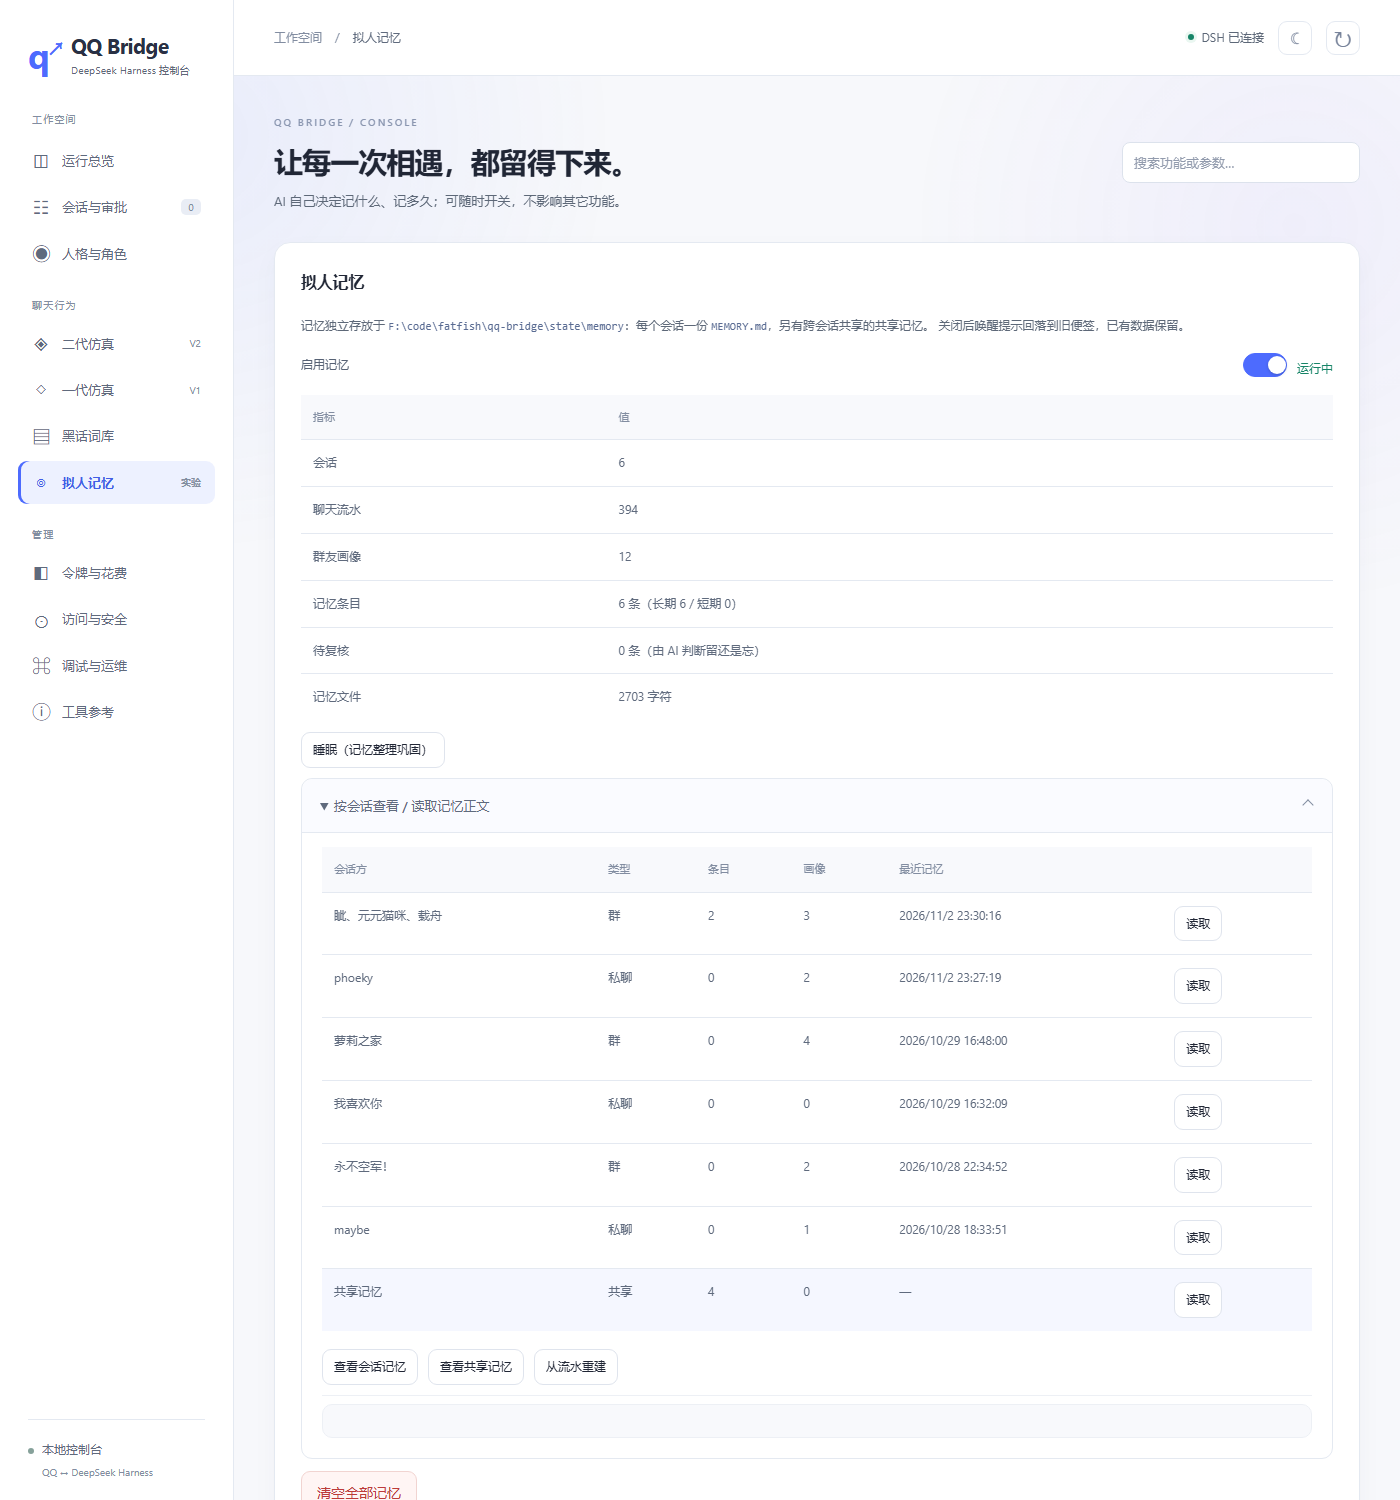
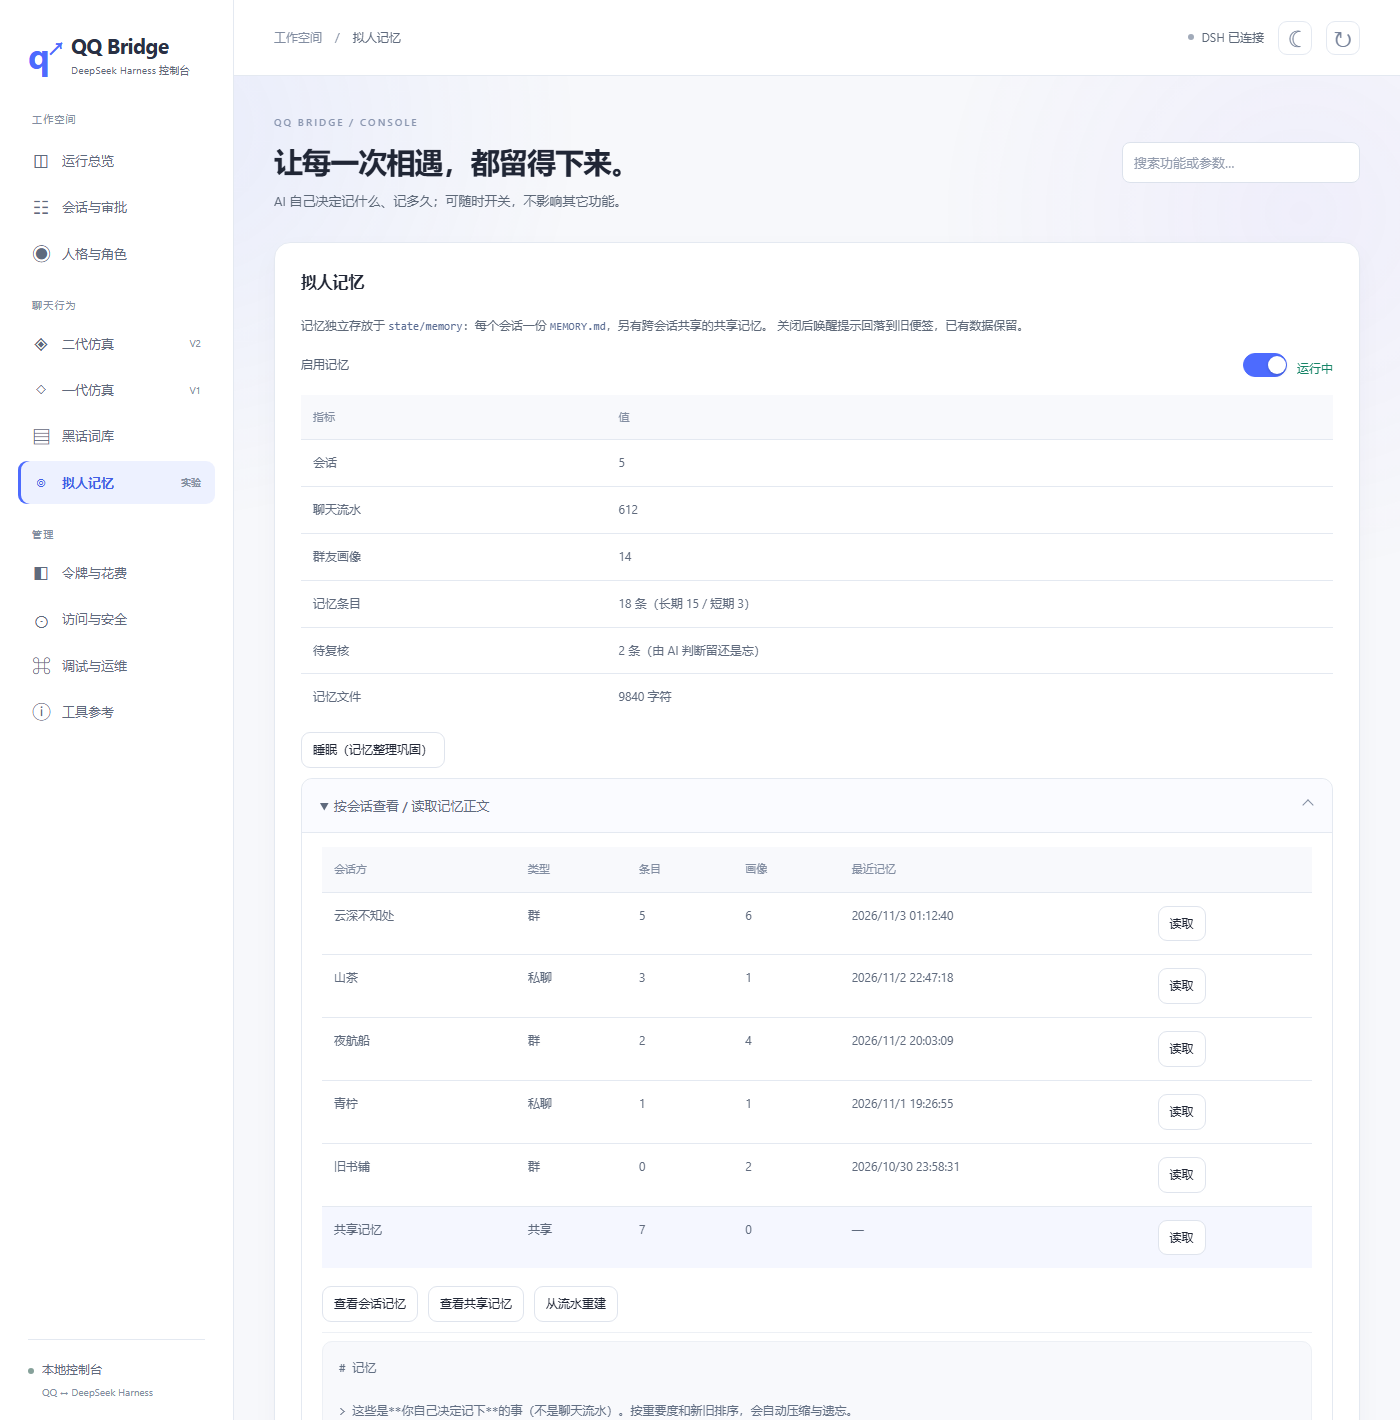
docs(memory): 截图改为虚构示例数据（脱敏）
原截图含真实群名、好友昵称与本机部署路径，不适合放进公开仓库/PR。

- 用控制台真实样式（同一份 CSS 与页面骨架）渲染了一份**全虚构**的示例：
  群名 云深不知处 / 夜航船 / 旧书铺，好友 山茶 / 青柠，
  记忆内容为山茶插画集投稿、阿灯不吃香菜、老周开书店等；
- 文档正文里的真实人名示例（阿草/老爹/载舟/徐文杰）同步替换为虚构示例；
- 角色名「小鲸鱼」保留（属于公开的角色设定，不是敏感信息）。

截图路径不变：docs/images/console-memory.png

diff --git a/docs/guides/MEMORY.md b/docs/guides/MEMORY.md
@@ -35,7 +35,7 @@
 
 | 层 | 放什么 | 谁能查 |
 | --- | --- | --- |
-| **共享记忆**（`layer="global"`） | 关于某个人/某件事**本身**的事实：阿草在学吉他、老爹喜欢草莓味、载舟是徐文杰 | **任何会话**都查得到（A 群写的，B 群也认） |
+| **共享记忆**（`layer="global"`） | 关于某个人/某件事**本身**的事实：山茶在准备插画集投稿、阿灯不吃香菜、老周是开书店的 | **任何会话**都查得到（A 群写的，B 群也认） |
 | **本会话记忆**（`layer="session"`，默认） | 只属于这个群/私聊的事：本群周五团建、这轮话题聊到一半 | 只有本会话 |
 
 - 存储分开：`state/memory/_global/`（共享层）+ `state/memory/<会话>/`（各会话）。
@@ -173,4 +173,6 @@ node scripts/probe-memory-limits.mjs <key> # 看某会话的检索效果
    `public/console.html` 的拟人记忆页，`config.json` 的 `memory` 段。
 
 桥接对记忆的依赖只有几处 `memoryPlugin?.` 软调用，删掉后其余功能不受影响。
+
+
 
